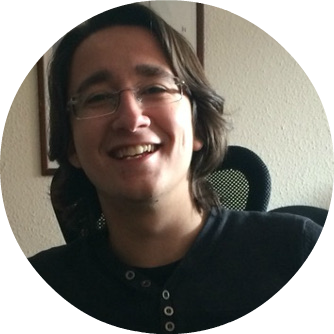
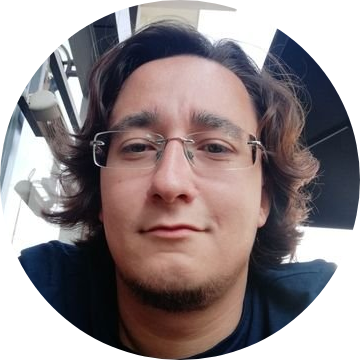
Update About Me and picture.

diff --git a/about/index.html b/about/index.html
@@ -18,8 +18,10 @@
 
   <meta name="twitter:card" content="summary"/>
 <meta name="twitter:title" content="About me"/>
-<meta name="twitter:description" content="I&rsquo;m a Software Developer and Software Engineering student graduate based in Izmir, Turkey Berlin, Germany.
-I consider myself a passionate developer. Actually, not just about software development, I&rsquo;m passionate about everything I like to do. Years ago, when I was a secondary school kid, I was really passionate riddle solver until owners of my favorite riddle game shut down the website. That passion led me to create my own browser-based riddle game and so I started programming."/>
+<meta name="twitter:description" content="Born in 1994 in lovely Izmir. Lived there for over 20 years. Moved to Berlin in May 2018.
+Have been developing &amp; managing web apps since 2015.
+Mostly dealing with JVM, Go and Kubernetes nowadays.
+I believe in this god. ;)"/>
 
   
 <script type="application/javascript">
@@ -104,16 +106,12 @@ if (!doNotTrack) {
   <div class="content container">
   <div class="post">
     <h1 class="post-title">About me</h1>
-    <p>I&rsquo;m a Software Developer and Software Engineering <del>student</del> graduate based in <del>Izmir, Turkey</del> Berlin, Germany.</p>
+    <p>Born in 1994 in lovely Izmir. Lived there for over 20 years. Moved to Berlin in May 2018.</p>
 
-<p>I consider myself a passionate developer. Actually, not just about software development, I&rsquo;m passionate about everything I like to do. Years ago, when I was a secondary school kid, I was really passionate riddle solver until owners of my favorite riddle game shut down the website. That passion led me to create my own browser-based riddle game and so I started programming.</p>
+<p>Have been developing &amp; managing web apps since 2015.<br />
+Mostly dealing with JVM, Go and Kubernetes nowadays.</p>
 
-<p>Here is my personal area to share <em>generally</em> technical things. If you think that I&rsquo;m wrong about something or you have better solution than mine, you are free to comment with any wording you want. I don&rsquo;t care how rude or disrespectful you are as long as you are right and teach me something I don&rsquo;t know.</p>
-
-<p>Like I said, here is my personal area and having the title &ldquo;mostly java stuff&rdquo; doesn&rsquo;t mean that I will write only technical things. You shouldn&rsquo;t be surprised if I write something to criticize people who watch only American movies &amp; tv series or if I criticize people who don&rsquo;t like poem or if I write something about <a href="https://en.wikipedia.org/wiki/%C5%BDeljko_Obradovi%C4%87">god</a>. ;)</p>
-
-<p>Cheers,<br />
-<strong>Sedat Gokcen</strong></p>
+<p>I believe in <a href="https://en.wikipedia.org/wiki/%C5%BDeljko_Obradovi%C4%87">this god</a>. ;)</p>
 
   </div>
   </div>
